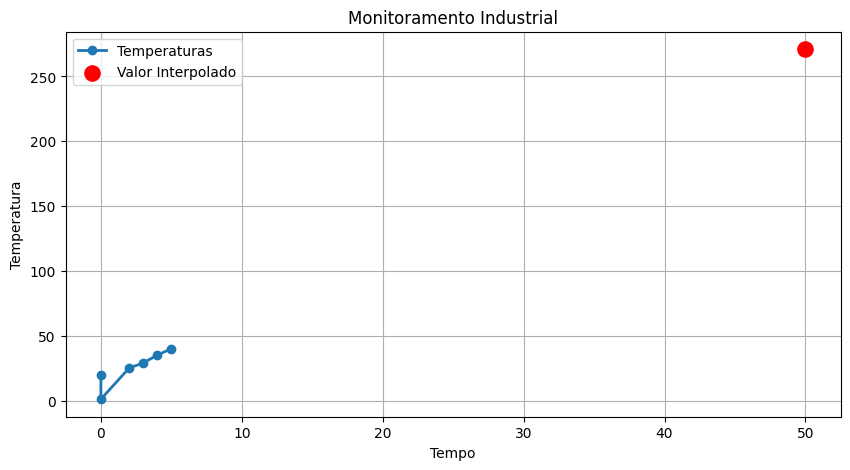
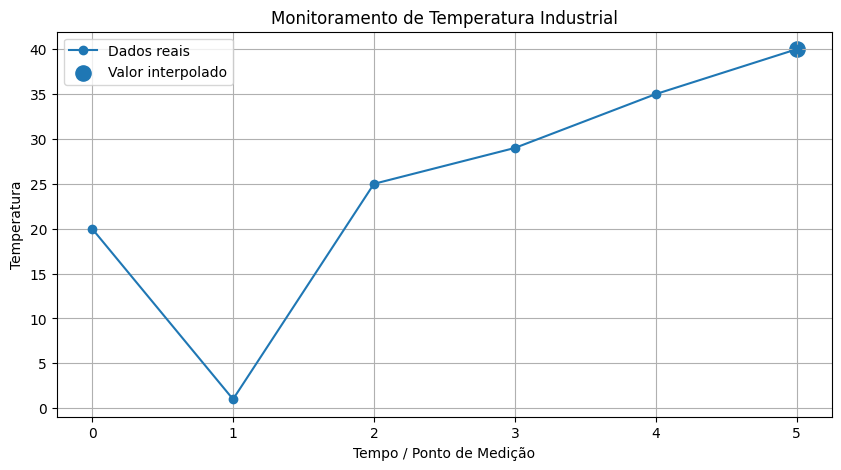
primeira versao do site

diff --git a/src/estatisticas.py b/src/estatisticas.py
@@ -1,13 +1,20 @@
 import numpy as np
 
 def calcular_erro(y):
-    
-    media = np.mean(y)
+    if not y or len(y) == 0:
+        return 0
 
-    erro = [abs(valor - media) for valor in y]
-    
-    return np.mean (erro)
-    
+    media = sum(y) / len(y)
+
+    if media == 0:
+        return 0
+
+    erro = sum(abs(valor - media) for valor in y) / len(y)
+    return erro
+
+
 def desvio_padrao(y):
+    if not y or len(y) == 0:
+        return 0
 
-    return np.std(y)
+    return float(np.std(y))

diff --git a/src/interpolacao.py b/src/interpolacao.py
@@ -2,14 +2,24 @@ def lagrange(valor_x, xs, ys):
     n = len(xs)
     resultado = 0
 
+    if len(xs) != len(ys):
+        raise ValueError("As listas X e Y precisam ter o mesmo tamanho.")
+
+    if len(set(xs)) != len(xs):
+        raise ValueError("Existem valores repetidos na coluna X do CSV.")
+
     for i in range(n):
         termo = ys[i]
 
         for j in range(n):
-            if j != i:
-                termo *= (valor_x - xs[j]) / (xs[i] - xs[j])
+            if i != j:
+                denominador = xs[i] - xs[j]
+
+                if denominador == 0:
+                    raise ValueError("Erro: existem valores iguais na coluna X.")
+
+                termo *= (valor_x - xs[j]) / denominador
 
         resultado += termo
 
     return resultado
-

diff --git a/src/leitura_csv.py b/src/leitura_csv.py
@@ -1,8 +1,9 @@
 import pandas as pd
-def ler_csv(caminho):
-    dados = pd.read_csv(caminho)
 
-    x = dados.iloc[:, 0]. tolist()
-    y = dados.iloc[:, 1]. tolist()
+def ler_csv(arquivo):
+    dados = pd.read_csv(arquivo, skipinitialspace=True)
+
+    x = dados.iloc[:, 0].astype(float).tolist()
+    y = dados.iloc[:, 1].astype(float).tolist()
 
     return x, y